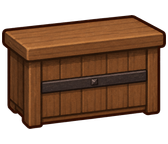
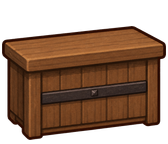
필방 계산대를 추가하고 가구 접지선을 맞춤

diff --git a/docs/art/image-archive.html b/docs/art/image-archive.html
@@ -2272,11 +2272,15 @@
         file: `${id}-${tier}.png`, icon, size: '512×768', status: 'none', optional: tier > 1
       }))),
       ...shopCatalog.map(({ id, name, icon }) => {
-        const made = id === 'smith';
+        const made = id === 'smith' || id === 'brush';
+        const actualById = {
+          smith: '168×144 RGBA · 오른쪽 아래를 향한 넓은 판매면 · 중앙 철 보강띠',
+          brush: '168×144 RGBA · 오른쪽 아래를 향한 넓은 판매면 · 한지 상판과 얕은 서랍'
+        };
         return {
           c: 'counters', shop: name, label: `${name} 계산대`, file: `${id}.png`, icon,
           size: '168×144', status: made ? 'draft' : 'none', optional: true,
-          actual: made ? '168×144 RGBA · 오른쪽 아래를 향한 넓은 판매면 · 중앙 철 보강띠' : undefined,
+          actual: made ? actualById[id] : undefined,
           src: made ? `../../godot/art/counters/${id}.png` : undefined,
           path: made ? `godot/art/counters/${id}.png` : undefined
         };

diff --git a/docs/art/prompts/COUNTER-BRUSH-V0.1.md b/docs/art/prompts/COUNTER-BRUSH-V0.1.md
@@ -1,0 +1,19 @@
+# 필방 계산대 프롬프트 V0.1
+
+- 방식: built-in image generation
+- 참고 1: `godot/art/counters/smith.png` — 크기·시점·단순화 기준
+- 참고 2: `godot/art/stalls/brush.png` — 필방 나무색·한지 질감 기준
+- 게임 파일: `godot/art/counters/brush.png`
+- 파생: `tools/fit-transparent-prop.cjs`로 168×144 RGBA에 정렬
+
+```text
+Use case: stylized-concept
+Asset type: 168x144 transparent game sales-counter sprite for a Korean Joseon-era brush-and-ink shop
+Input images: Image 1 is the exact counter scale, camera, silhouette simplicity, outline thickness, and runtime readability reference. Image 2 is the exact brush-shop wood palette and hand-painted style reference.
+Primary request: Draw one small waist-high Korean wooden sales counter for the brush-and-ink shop. Use a broad low timber front, a slightly visible flat top, a centered pair of very shallow traditional wood drawers, and one narrow pale hanji writing-mat strip inset along the top. Keep almost all of the top empty so code can place sold goods or effects. It must feel like a simple Joseon wooden writing counter, not a Western cashier desk.
+Style/medium: cute hand-painted colored-pencil/crayon game prop, thick uneven dark reddish-brown outline, broad simple shapes, maximum two shading steps, readable at 84x72, matching both references.
+Composition/framing: near-front three-quarter view, not an isometric box; the wide customer-facing plane must face screen down-right. Centered, stable bottom edge, generous transparent margin, close to bilateral symmetry so mirroring stays natural.
+Palette: warm wood #8a6a45/#6d5236, pale hanji #ece2cb, tiny restrained dark ink accent #2b241b.
+Constraints: genuine transparent alpha; no cast shadow, floor, wall, roof, character, brush, ink stick, inkstone, paper roll, product, coin, abacus, text, emblem, UI, border, watermark.
+Avoid: isometric cube, tall cabinet, Western shop bar, fantasy counter, ornate carving, photorealism, 3D rendering, strong perspective distortion, black background.
+```

diff --git a/docs/art/NON-UI-ASSET-WORKLIST-2026-08-27.md b/docs/art/NON-UI-ASSET-WORKLIST-2026-08-27.md
@@ -26,6 +26,8 @@
 
 각 가게는 **실제로 등장하는 18장만** 만든다: 1~4번째 물건은 1·2·3단, 5~6번째는 2·3단, 7~8번째는 3단만 사용한다.
 
+- [x] 필방 계산대: `godot/art/counters/brush.png` — 기존 필방 좌판의 한지 상판·나무색을 이어받음
+
 - [ ] 어물전 기본 8종: 굴비·미역·젓갈·북어·김·자반·문어·전복
 - [ ] 포목전 기본 8종: 무명·삼베·모시·명주·염낭·비단·관복감·혼례비단
 - [ ] 갓방 기본 8종: 삿갓·망건·탕건·갓끈·흑립·주립·정자관·옥로립
@@ -38,7 +40,7 @@
 - [ ] 필방부터 나전방까지 가게별 일꾼 세트. 한 가게의 1단 A타입 두 방향을 먼저 승인받고 24장으로 확장한다.
 - [ ] 점장 카드 15장과 선택 승급 카드 30장. 해당 가게 일꾼 콘셉트가 먼저 확정되어야 한다.
 - [ ] 손님 정면·뒷모습 60장. 기존 옆모습과 같은 개체·등급 톤을 유지하는 시험판부터 만든다.
-- [ ] 가게별 풀무·가마 14장, 매대 5장, 선택 계산대 14장. 가게 콘셉트와 물건 실루엣 확정 뒤 제작한다.
+- [ ] 가게별 풀무·가마 14장, 매대 5장, 선택 계산대 13장. 가게 콘셉트와 물건 실루엣 확정 뒤 제작한다.
 
 ## 자동 검수
 

diff --git a/docs/art/IMAGE_ARCHIVE.md b/docs/art/IMAGE_ARCHIVE.md
@@ -720,8 +720,8 @@
 </table>
 
 <table>
-  <tr><td align="center"><img src="../../godot/art/counters/smith.png" width="168" alt="대장간 나무 계산대"></td></tr>
-  <tr><td><strong>Generated · LOG-COUNTER-SMITH-001</strong><br>168×144 RGBA. 오른쪽 아래를 향한 넓은 판매면과 중앙 철 보강띠만 남기고 상판은 판매품·효과를 위해 비웠다.</td></tr>
+  <tr><td align="center"><img src="./generated/COUNTERS-RUNTIME-PREVIEW-V0.1.png" width="240" alt="실제 게임 크기의 대장간과 필방 계산대 비교"></td></tr>
+  <tr><td><strong>Generated · LOG-COUNTER-SMITH-001 · LOG-COUNTER-BRUSH-001</strong><br>두 장 모두 168×144 RGBA, 실제 표시 84×72. 대장간은 중앙 철 보강띠, 필방은 한지 상판과 얕은 서랍만으로 가게를 구분하며 판매면은 오른쪽 아래를 향한다.</td></tr>
 </table>
 
 게임 연결 파일은 `godot/art/hero-body/`, `hero-tail/`, `gear/`, `items/`에 있다.

diff --git a/docs/art/05_GENERATION_LOG.md b/docs/art/05_GENERATION_LOG.md
@@ -2270,6 +2270,24 @@
 
 ---
 
+## LOG-COUNTER-BRUSH-001 · 필방 계산대
+
+- 날짜: 2026-08-27
+- 게임 파일: `godot/art/counters/brush.png`
+- 비교판: `generated/COUNTERS-RUNTIME-PREVIEW-V0.1.png`
+- 규격: `168×144 RGBA`, 실제 표시 `84×72`
+- 도구: built-in image generation + `tools/fit-transparent-prop.cjs`
+- 결과: `Generated / Draft`
+
+### 판정
+
+- 대장간 계산대와 같은 화면 크기·시점·외곽선 굵기를 유지하면서 한지 상판과 얕은 서랍 두 칸으로 필방을 구분했다.
+- 넓은 판매면은 화면 오른쪽 아래를 향하고 좌우 반전 때 문제가 될 비대칭 소품은 넣지 않았다.
+- 실제 84×72 비교에서 한지 상판이 먼저 읽히며 붓·먹·벼루·동전·주판·글자·UI와 바닥 그림자는 없다.
+- 외곽 알파 상자는 164×87이고 아래 여백은 4px다.
+
+---
+
 ## LOG-KILN-SMITH-001 · 대장간 풀무·화덕
 
 - 날짜: 2026-08-27
